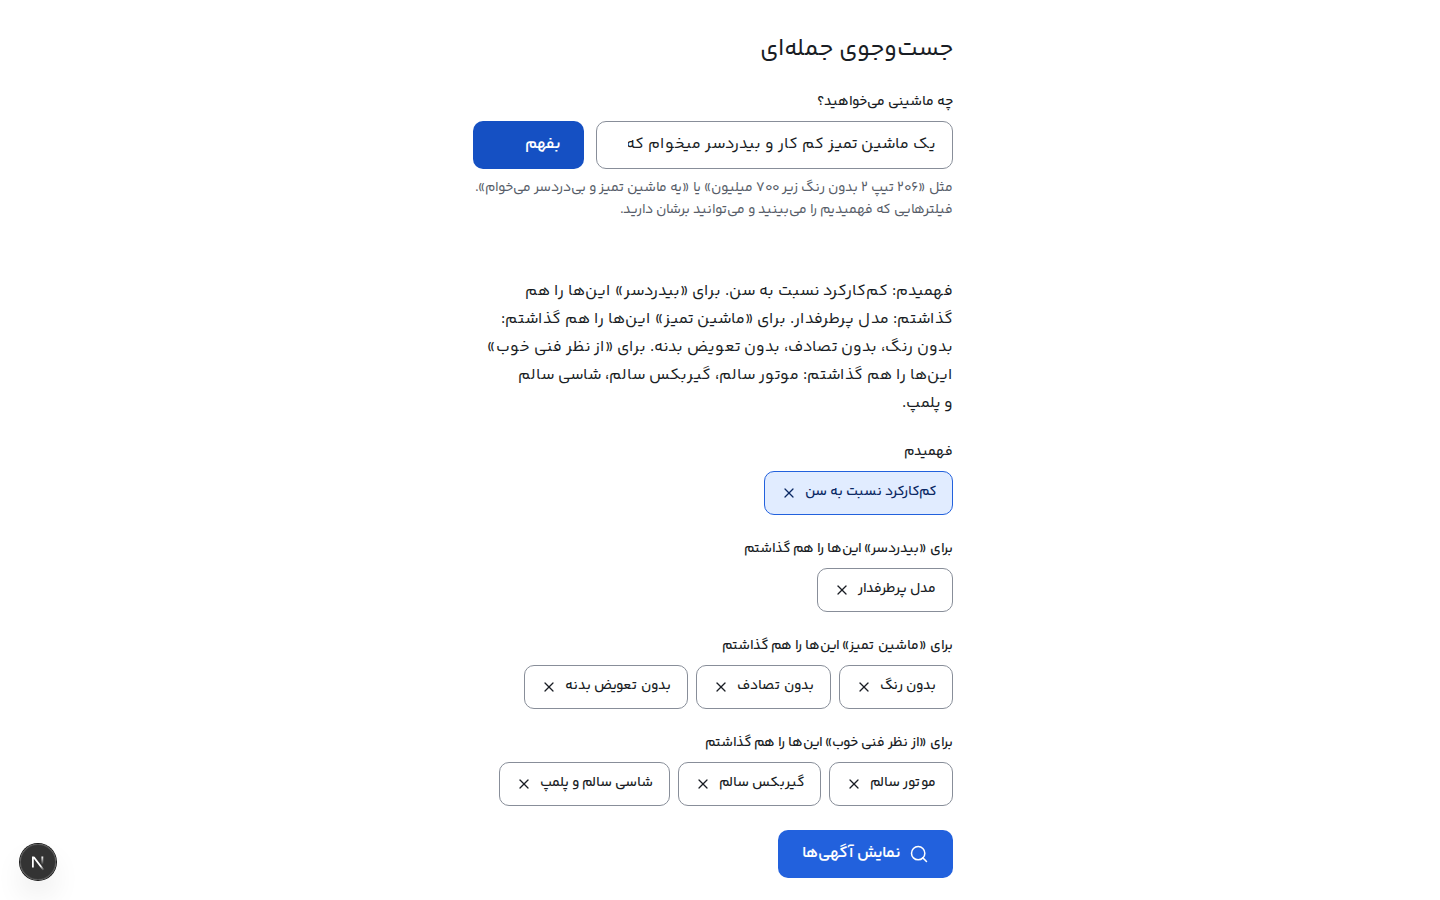
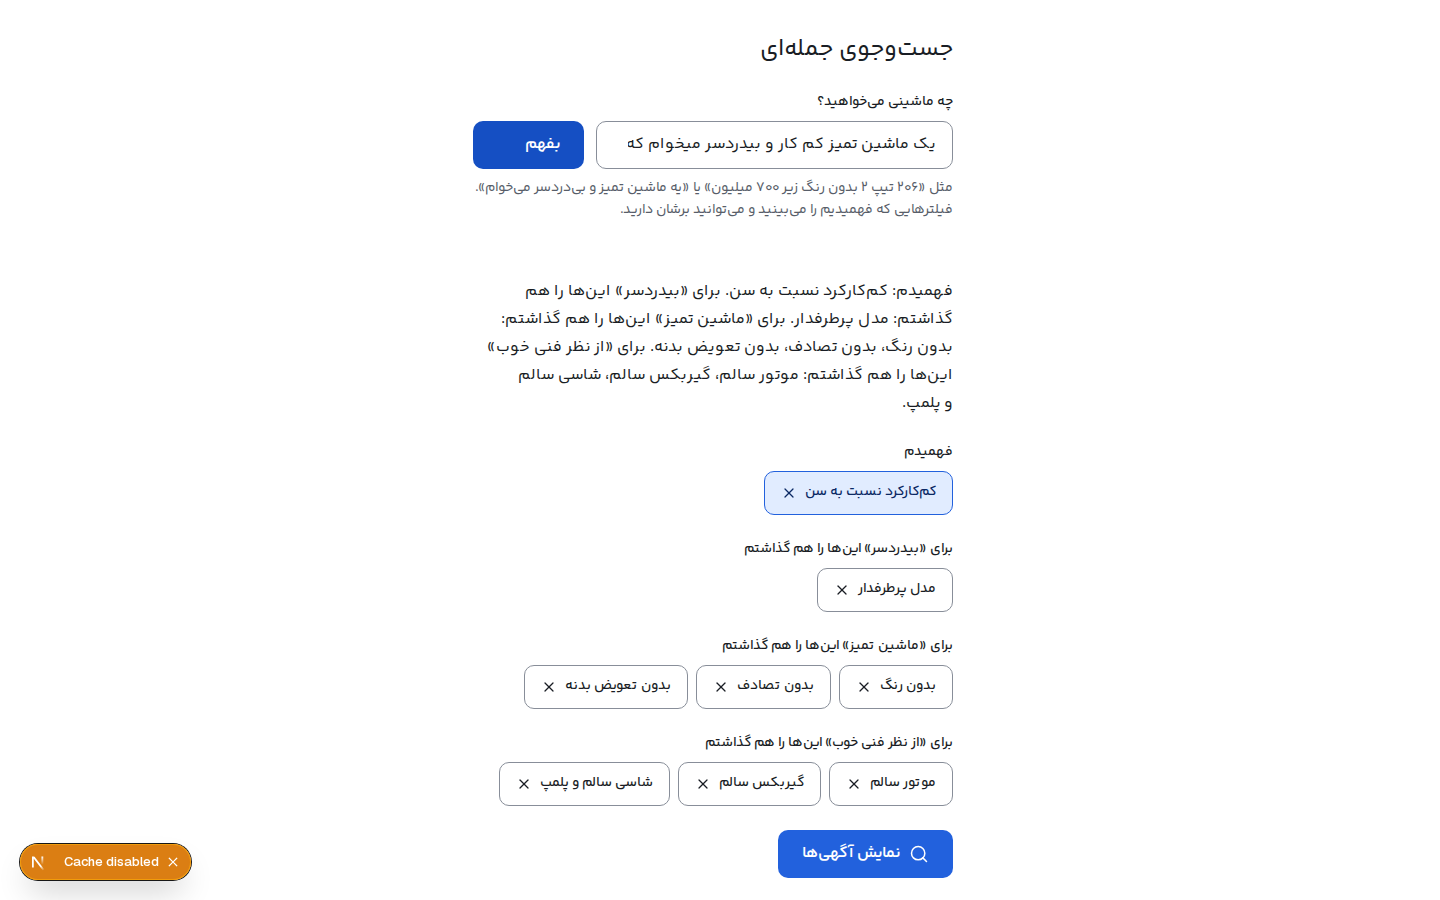
CS-93: plain-Farsi search on the search page, with its whole-flow test

Changed region(s): [[0.0, 0.9333, 0.1562, 0.9956]]

diff --git a/e2e/tests/app/plain-search-flow.spec.ts b/e2e/tests/app/plain-search-flow.spec.ts
@@ -1,0 +1,75 @@
+import { expect, test } from '../../fixtures/test';
+
+// Plain-Farsi search on the search page, the whole flow (CS-62, CS-93): open the box, write a sentence, see what was
+// understood, take a filter off, apply, and land on /search with the rest in the address and in the page's own chips.
+// The model is off (the master switch's default), so code alone reads the sentence and the box says so.
+
+const SENTENCE = 'پژو ۲۰۶ تیپ ۲ بدون رنگ زیر ۷۰۰ میلیون';
+const OWNER_EXAMPLE = 'یک ماشین تمیز کم کار و بیدردسر میخوام که همه چیش از نظر فنی خوب باشه و تمیز باشه';
+
+async function open(page: import('@playwright/test').Page) {
+  await page.goto('/search');
+  await page.getByText('با یک جمله بگویید چه میخواهید').click();
+}
+
+async function ask(page: import('@playwright/test').Page, sentence: string) {
+  await page.getByRole('searchbox', { name: 'ماشین مورد نظرتان را بنویسید' }).fill(sentence);
+  await page.getByRole('button', { name: 'بفهم' }).click();
+}
+
+test('a sentence becomes chips, one is taken off, and applying opens the search with the rest', async ({
+  page,
+}, testInfo) => {
+  await open(page);
+  await ask(page, SENTENCE);
+  await expect(page.getByRole('button', { name: 'برداشتن «بدون رنگ»' })).toBeVisible();
+  await page.screenshot({
+    path: `../docs/evidence/query-understanding/2026-10-02/screenshots/${testInfo.project.name}-search-page-understood.png`,
+  });
+  await page.getByRole('button', { name: 'برداشتن «بدون رنگ»' }).click();
+  await page.getByRole('button', { name: 'نمایش آگهیها' }).click();
+  await expect(page).toHaveURL(/model=peugeot\.206/);
+  const url = new URL(page.url());
+  expect(url.searchParams.get('trim')).toBe('peugeot.206.2');
+  expect(url.searchParams.get('price')).toBe('..700000000');
+  expect(url.searchParams.has('nopaint')).toBe(false);
+  // The page's own applied chips show what the sentence became.
+  await expect(page.getByRole('button', { name: /پژو ۲۰۶/ }).first()).toBeVisible();
+});
+
+test('the owner’s vague request opens the search with the clean-and-easy filters', async ({
+  page,
+}, testInfo) => {
+  await open(page);
+  await ask(page, OWNER_EXAMPLE);
+  await expect(page.getByRole('button', { name: 'برداشتن «موتور سالم»' })).toBeVisible();
+  await expect(page.getByRole('heading', { level: 3, name: /اینها را هم گذاشتم/ }).first()).toBeVisible();
+  await page.getByRole('button', { name: 'نمایش آگهیها' }).click();
+  await expect(page).toHaveURL(/catalogue=/);
+  // The box closes so the results are what is on screen.
+  await expect(page.getByRole('searchbox', { name: 'ماشین مورد نظرتان را بنویسید' })).toBeHidden();
+  await page.screenshot({
+    path: `../docs/evidence/query-understanding/2026-10-02/screenshots/${testInfo.project.name}-search-page-owner-applied.png`,
+  });
+});
+
+test('words nobody could read are said on the search page and can be searched as text', async ({ page }) => {
+  await open(page);
+  await ask(page, 'پژو ۲۰۶ خوشگل');
+  await expect(page.getByText('فهم هوشمند جمله فعلاً خاموش است')).toBeVisible();
+  await page.getByRole('button', { name: 'جستوجو در متن آگهیها' }).click();
+  await page.getByRole('button', { name: 'نمایش آگهیها' }).click();
+  await expect(page).toHaveURL(/q=/);
+});
+
+test('floor: the search page with the box open has no sideways scroll and no axe findings', async ({
+  page,
+  rtl,
+  a11y,
+}) => {
+  await open(page);
+  await ask(page, OWNER_EXAMPLE);
+  await expect(page.getByRole('button', { name: /^برداشتن/ }).first()).toBeVisible();
+  await rtl.expectNoHorizontalOverflow();
+  await a11y.check();
+});

diff --git a/apps/web/src/features/search-understanding/components/plain-search.tsx b/apps/web/src/features/search-understanding/components/plain-search.tsx
@@ -1,8 +1,10 @@
 'use client';
 
+import type { Route } from 'next';
+import { useRouter } from 'next/navigation';
 import { Info, Plus, Search as SearchIcon, X } from 'lucide-react';
 import { useId, useMemo, useRef, useState } from 'react';
-import type { Search } from '@carshenas/search/search';
+import { searchHref, type Search } from '@carshenas/search/search';
 import type {
   Suggestion,
   UnderstoodChip,
@@ -31,7 +33,8 @@ import {
 
 type Props = {
   /** The buyer's final search: what the chips left, plus anything they added. */
-  onApply: (search: Search) => void;
+  /** Where the buyer's final search goes; by default the search page's address, opened with the router. */
+  onApply?: (search: Search) => void;
   initialQuery?: string;
   /** The label above the field; the search page and the home page word it their own way. */
   label?: string;
@@ -53,7 +56,17 @@ const NETWORK_FAILED =
   'به سرور نرسیدیم؛ اینترنت را بررسی کنید و دوباره بفرستید. جملهی شما همینجا مانده است.';
 const SERVER_FAILED = 'مشکلی پیش آمد؛ دوباره امتحان کنید. جملهی شما همینجا مانده است.';
 
-export function PlainSearch({ onApply, initialQuery = '', label = 'چه ماشینی میخواهید؟' }: Props) {
+export function PlainSearch({
+  onApply: onApplyGiven,
+  initialQuery = '',
+  label = 'چه ماشینی میخواهید؟',
+}: Props) {
+  const router = useRouter();
+  const onApply =
+    onApplyGiven ??
+    ((search: Search) => {
+      router.push(searchHref(search) as Route);
+    });
   const ids = useId();
   const fieldId = `${ids}-field`;
   const hintId = `${ids}-hint`;
@@ -193,6 +206,7 @@ function Result({
   onRestore: () => void;
   onTakeSuggestion: (suggestion: Suggestion) => void;
   onSearchWords: (group: UnusedWords) => void;
+  /** Where the buyer's final search goes; by default the search page's address, opened with the router. */
   onApply: (search: Search) => void;
 }) {
   const { understanding } = state;

diff --git a/apps/web/src/app/(site)/search/page.tsx b/apps/web/src/app/(site)/search/page.tsx
@@ -3,6 +3,7 @@ import { Suspense } from 'react';
 import { ResultsErrorBoundary } from '@/features/search/components/results-error';
 import { SearchScreen } from '@/features/search/components/search-screen';
 import { SearchScreenSkeleton } from '@/features/search/components/search-screen-skeleton';
+import { PlainSearchPanel } from '@/features/search-understanding/components/plain-search-panel';
 import { SEARCH_COPY } from '@/features/search/search-copy';
 
 export const metadata: Metadata = {
@@ -12,7 +13,8 @@ export const metadata: Metadata = {
 
 // The search page (CS-61): the heading is part of the prerendered shell; everything that depends on the address
 // (the search, the filters, the results) streams inside the boundary, and a failure to read them stays in its place with a
-// way to retry. CS-62 plugs plain-Farsi understanding in through SearchScreen's `understanding` prop.
+// way to retry. CS-62 plugs plain-Farsi understanding in through SearchScreen's `understanding` prop (a client leaf, so the page stays
+// a server file); a feature never imports another feature, so the composition is here.
 export default function SearchPage({ searchParams }: PageProps<'/search'>) {
   return (
     <main className="mx-auto flex w-full max-w-7xl flex-1 flex-col gap-4 px-4 pt-6 pb-16">
@@ -22,7 +24,7 @@ export default function SearchPage({ searchParams }: PageProps<'/search'>) {
       </h1>
       <ResultsErrorBoundary>
         <Suspense fallback={<SearchScreenSkeleton />}>
-          <SearchScreen searchParams={searchParams} />
+          <SearchScreen searchParams={searchParams} understanding={<PlainSearchPanel />} />
         </Suspense>
       </ResultsErrorBoundary>
     </main>

diff --git a/apps/web/src/features/search-understanding/components/plain-search-panel.tsx b/apps/web/src/features/search-understanding/components/plain-search-panel.tsx
@@ -1,0 +1,39 @@
+'use client';
+
+import type { Route } from 'next';
+import { useRouter } from 'next/navigation';
+import { useState } from 'react';
+import { searchHref } from '@carshenas/search/search';
+import { PlainSearch } from '@/features/search-understanding/components/plain-search';
+
+// Plain-Farsi search on the search page (CS-62, CS-93): a disclosure under the search box, closed by default so the page
+// keeps its first screen, that holds the sentence box. What the buyer applies opens the search page with those filters
+// (the address holds the whole search, ADR-0027) and closes the disclosure, so the results are what is on screen. The
+// model behind it is off unless the server's master switch is on; off, code alone reads the sentence and the box says so.
+
+export function PlainSearchPanel() {
+  const router = useRouter();
+  const [open, setOpen] = useState(false);
+  return (
+    <details
+      open={open}
+      onToggle={(event) => {
+        setOpen(event.currentTarget.open);
+      }}
+      className="rounded-control border border-divider bg-surface"
+    >
+      <summary className="flex min-h-12 items-center px-4 text-control font-semibold text-default">
+        با یک جمله بگویید چه میخواهید
+      </summary>
+      <div className="px-4 pt-2 pb-4">
+        <PlainSearch
+          label="ماشین مورد نظرتان را بنویسید"
+          onApply={(search) => {
+            setOpen(false);
+            router.push(searchHref(search) as Route);
+          }}
+        />
+      </div>
+    </details>
+  );
+}

diff --git a/backlog/tasks/cs-93 - Wire-plain-Farsi-search-into-the-search-page.md b/backlog/tasks/cs-93 - Wire-plain-Farsi-search-into-the-search-page.md
@@ -1,0 +1,40 @@
+---
+id: CS-93
+title: Wire plain-Farsi search into the search page
+status: In Review
+assignee:
+  - '@claude'
+created_date: '2026-10-02 21:16'
+updated_date: '2026-10-02 21:16'
+labels:
+  - search
+  - ai
+dependencies: []
+ordinal: 60000
+---
+
+## Description
+
+<!-- SECTION:DESCRIPTION:BEGIN -->
+Mount PlainSearch in SearchScreen's understanding slot (CS-62 follow-up): a closed disclosure under the search box; applying a sentence's filters opens /search with them.
+<!-- SECTION:DESCRIPTION:END -->
+
+## Acceptance Criteria
+<!-- AC:BEGIN -->
+- [x] #1 The search page offers a sentence box that shows what was understood as removable chips and applies the rest to the address
+- [x] #2 The owner's vague request opens the clean-and-easy catalogue; the master switch stays off by default and the box says so
+- [x] #3 A whole-flow Playwright test passes on phone and desktop
+<!-- AC:END -->
+
+## Definition of Done
+<!-- DOD:BEGIN -->
+- [ ] #1 Relevant checks pass (lint, typecheck, tests)
+- [ ] #2 Docs or ADRs updated when behavior or decisions changed
+- [ ] #3 No secrets or credentials committed
+<!-- DOD:END -->
+
+## Final Summary
+
+<!-- SECTION:FINAL_SUMMARY:BEGIN -->
+PlainSearchPanel (a closed disclosure) is mounted in SearchScreen's understanding slot from the search page; applying closes it and opens /search with the filters. Evidence: e2e/tests/app/plain-search-flow.spec.ts passes on phone and desktop (8/8), screenshots in docs/evidence/query-understanding/2026-10-02/screenshots; pnpm check passes. The model stays off by default.
+<!-- SECTION:FINAL_SUMMARY:END -->
